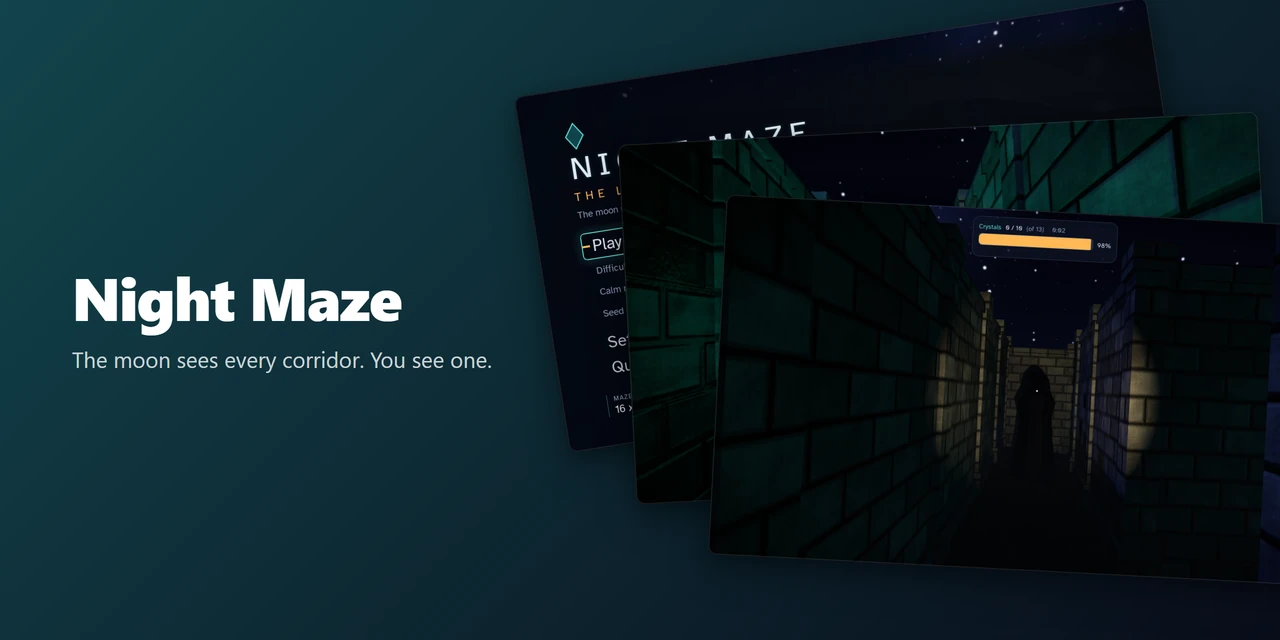
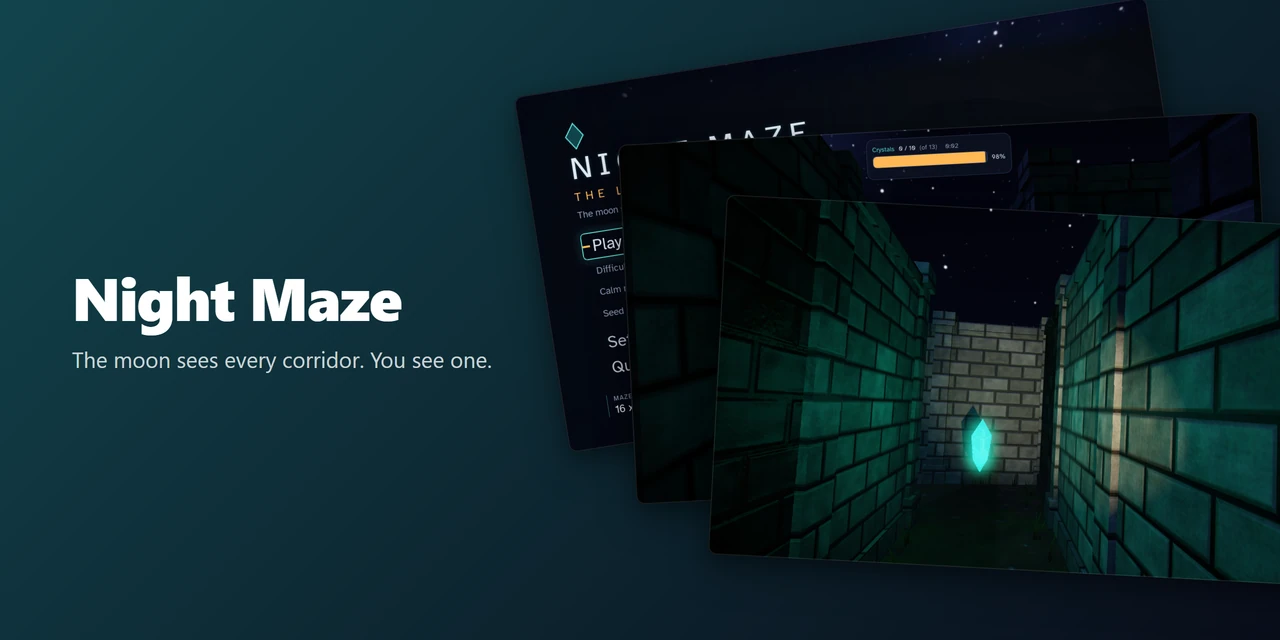
docs(showcase): put the crystal corridor in front on the hero

diff --git a/README.md b/README.md
@@ -1,6 +1,6 @@
 <div align="center">
 
-<img src="docs/showcase/hero.webp" alt="Night Maze: the main menu, a corridor with a crystal, and the shadow standing at the end of a corridor" width="100%" />
+<img src="docs/showcase/hero.webp" alt="Night Maze: the main menu, the shadow standing at the end of a corridor, and a corridor with a crystal" width="100%" />
 
 <h1>Night Maze</h1>
 
